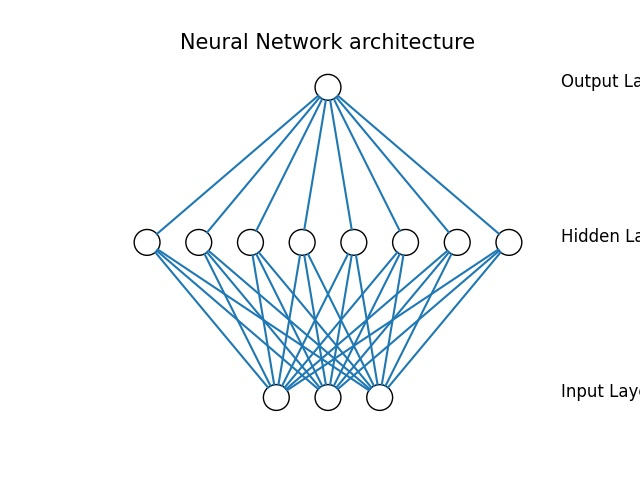
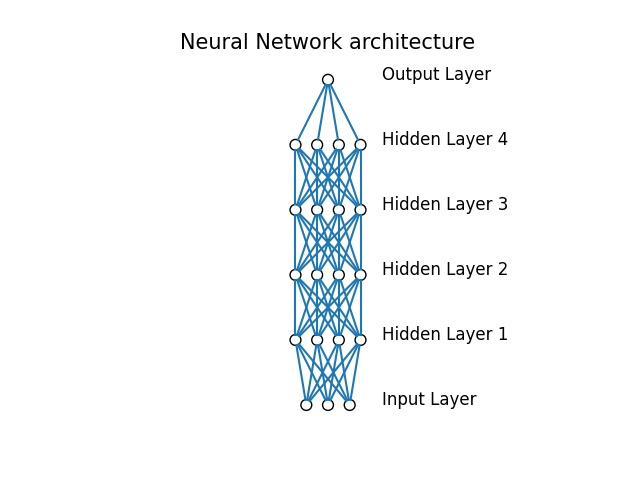
updated image example of architecture

diff --git a/configurationNetwork.py b/configurationNetwork.py
@@ -1,5 +1,5 @@
 #layers can be [input, hidden, hidden,...,hidden,...,output]
-neurons_in_layers=[3,8,1]
+neurons_in_layers=[3,4,4,4,4,1]
 
 class TrainingExample():
     def __init__(self, inputs, output):
